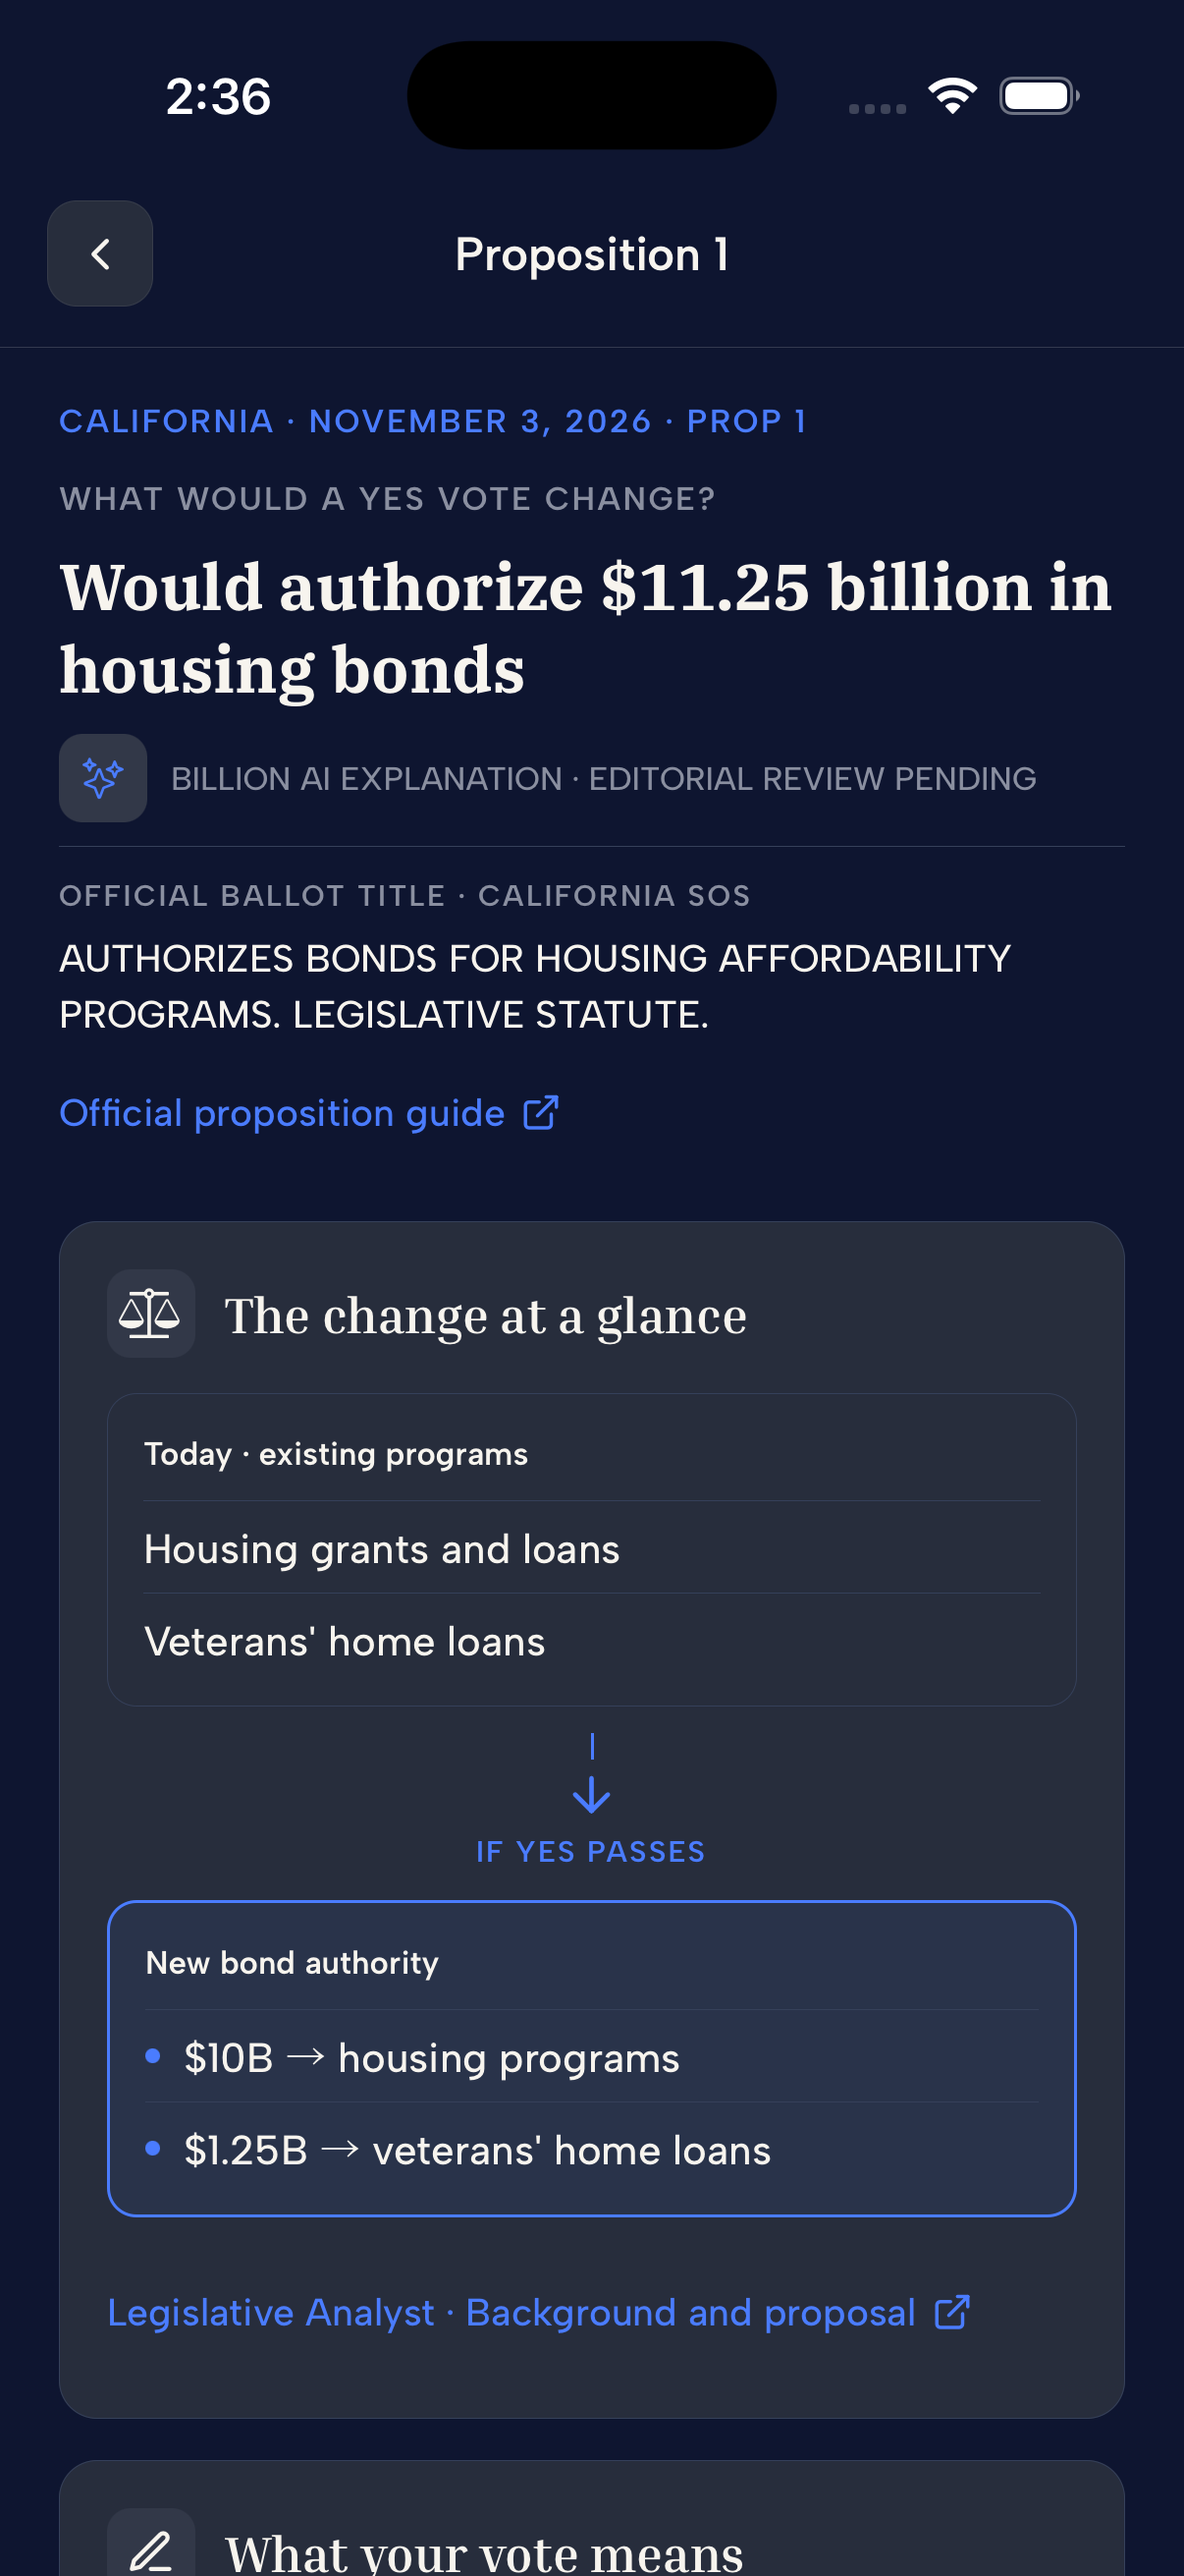
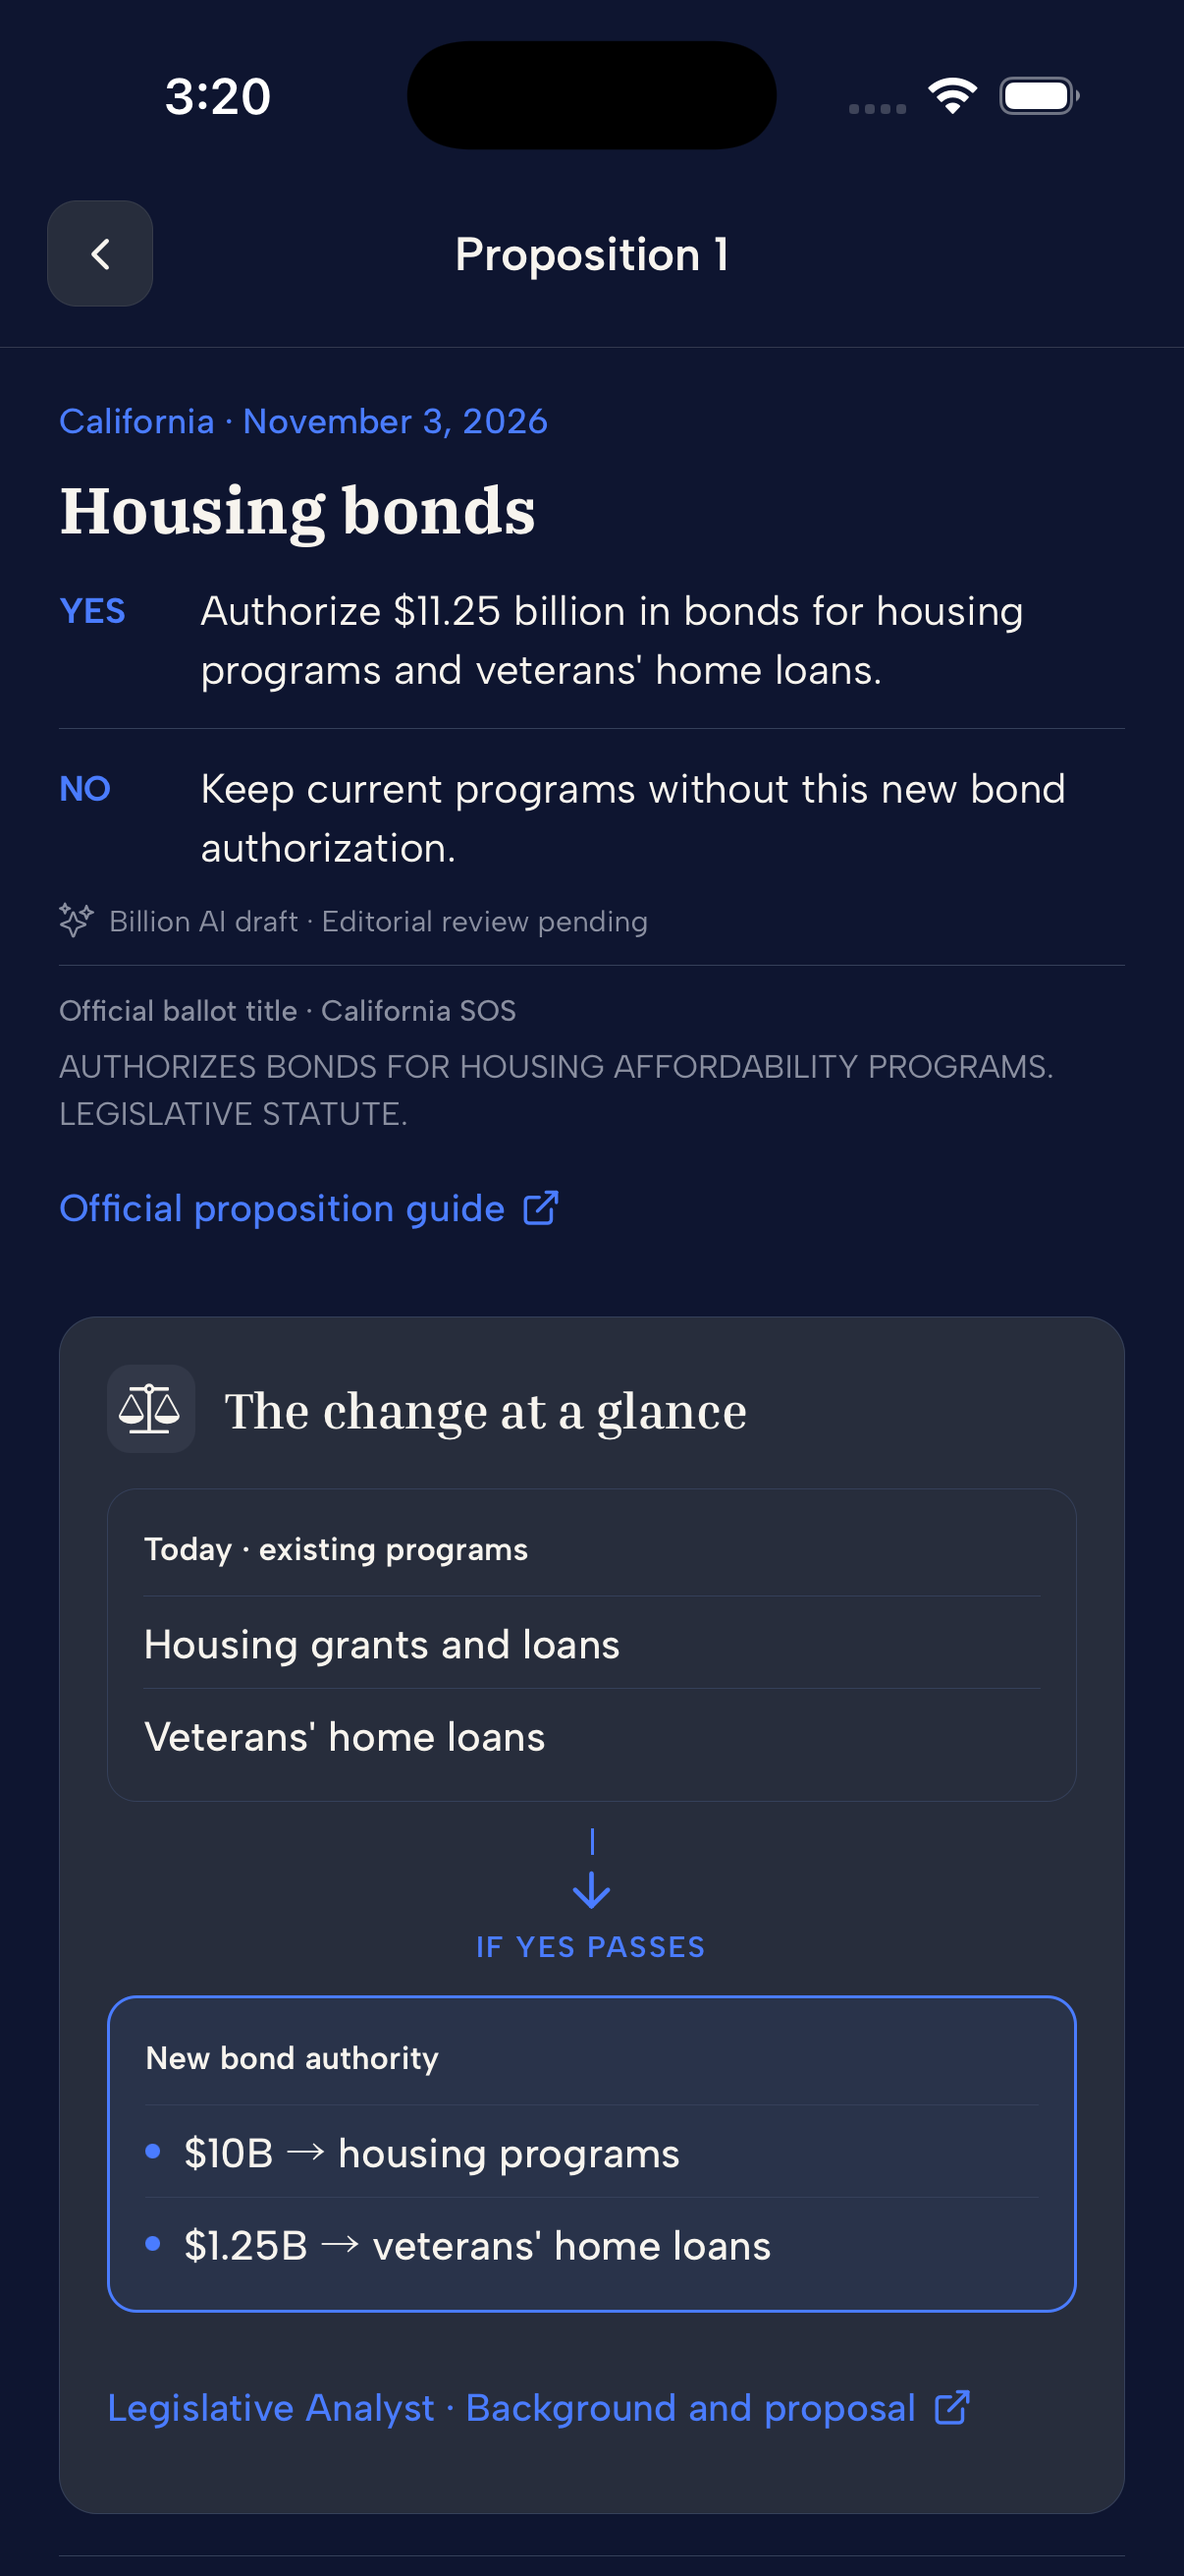
Lead proposition details with clear vote outcomes

diff --git a/apps/expo/src/app/proposition-detail.tsx b/apps/expo/src/app/proposition-detail.tsx
@@ -84,11 +84,11 @@ export default function PropositionDetailScreen() {
           <>
             <View style={s.lead}>
               <Text style={s.kicker}>
-                CALIFORNIA · NOVEMBER 3, 2026 · PROP {measure.number}
+                {fontScale >= 1.8 ? `Proposition ${measure.number} · ` : ""}
+                California · November 3, 2026
               </Text>
               {explainer ? (
                 <>
-                  <Text style={s.question}>WHAT WOULD A YES VOTE CHANGE?</Text>
                   <Text
                     accessibilityRole="header"
                     allowFontScaling={false}
@@ -96,10 +96,43 @@ export default function PropositionDetailScreen() {
                   >
                     {explainer.headline}
                   </Text>
-                  <View style={s.aiRow}>
-                    <View style={s.iconTile}>
-                      <Icon name="sparkle" size={14} color={P.primary} />
+                  <View style={s.quickVotes}>
+                    <View
+                      style={[
+                        s.quickVoteRow,
+                        fontScale >= 1.8 && s.quickVoteLarge,
+                      ]}
+                    >
+                      <Text style={s.quickChoice}>YES</Text>
+                      <Text
+                        style={[
+                          s.quickText,
+                          fontScale >= 1.8 && s.quickTextLarge,
+                        ]}
+                      >
+                        {explainer.voteBriefYes}
+                      </Text>
                     </View>
+                    <View
+                      style={[
+                        s.quickVoteRow,
+                        s.quickVoteRule,
+                        fontScale >= 1.8 && s.quickVoteLarge,
+                      ]}
+                    >
+                      <Text style={s.quickChoice}>NO</Text>
+                      <Text
+                        style={[
+                          s.quickText,
+                          fontScale >= 1.8 && s.quickTextLarge,
+                        ]}
+                      >
+                        {explainer.voteBriefNo}
+                      </Text>
+                    </View>
+                  </View>
+                  <View style={s.aiRow}>
+                    <Icon name="sparkle" size={12} color={P.quiet} />
                     <Text style={s.aiText}>{PROPOSITION_AI_LABEL}</Text>
                   </View>
                 </>
@@ -114,7 +147,7 @@ export default function PropositionDetailScreen() {
               )}
               <View style={s.officialIdentity}>
                 <Text style={s.metaLabel}>
-                  OFFICIAL BALLOT TITLE · CALIFORNIA SOS
+                  Official ballot title · California SOS
                 </Text>
                 <Text style={s.officialTitle}>{measure.title}</Text>
                 <InlineSource
@@ -127,8 +160,10 @@ export default function PropositionDetailScreen() {
             {explainer ? (
               <>
                 <MechanismDiagram explainer={explainer} />
-                <View style={s.surface}>
-                  <SectionHeading icon="vote" title="What your vote means" />
+                <DetailDisclosure
+                  title="Full Yes and No outcomes"
+                  subtitle="More detail from the official guide"
+                >
                   <View style={s.voteRow}>
                     <Text style={s.choice}>YES</Text>
                     <Text style={[s.body, s.voteBody]}>{explainer.yes}</Text>
@@ -141,7 +176,7 @@ export default function PropositionDetailScreen() {
                     label="California SOS · What Your Vote Means"
                     url={measure.sourceUrl}
                   />
-                </View>
+                </DetailDisclosure>
                 <View style={s.surface}>
                   <SectionHeading icon="trendingUp" title="Fiscal effect" />
                   <Text style={s.body}>{explainer.fiscal}</Text>
@@ -407,19 +442,10 @@ const s = StyleSheet.create({
   },
   lead: { gap: 8, paddingBottom: 3 },
   kicker: {
-    fontFamily: fontBody.semibold,
-    fontSize: 11,
+    fontFamily: fontBody.medium,
+    fontSize: 12,
     lineHeight: 17,
     color: P.primary,
-    letterSpacing: 0.8,
-  },
-  question: {
-    fontFamily: fontBody.semibold,
-    fontSize: 11,
-    lineHeight: 16,
-    color: P.quiet,
-    letterSpacing: 0.8,
-    marginTop: 2,
   },
   headline: {
     fontFamily: fontDisplay.bold,
@@ -427,12 +453,39 @@ const s = StyleSheet.create({
     lineHeight: 28,
     color: P.inkOnNight,
   },
-  aiRow: { flexDirection: "row", alignItems: "center", gap: 8 },
+  quickVotes: { gap: 10, marginTop: 2 },
+  quickVoteRow: {
+    flexDirection: "row",
+    alignItems: "flex-start",
+    gap: 12,
+  },
+  quickVoteLarge: { flexDirection: "column", gap: 2 },
+  quickVoteRule: {
+    borderTopWidth: StyleSheet.hairlineWidth,
+    borderTopColor: P.border,
+    paddingTop: 10,
+  },
+  quickChoice: {
+    minWidth: 36,
+    fontFamily: fontBody.bold,
+    fontSize: 12,
+    lineHeight: 20,
+    color: P.primary,
+  },
+  quickText: {
+    flex: 1,
+    fontFamily: fontBody.regular,
+    fontSize: 14,
+    lineHeight: 20,
+    color: P.inkOnNight,
+  },
+  quickTextLarge: { flex: 0 },
+  aiRow: { flexDirection: "row", alignItems: "center", gap: 5 },
   aiText: {
     flex: 1,
-    fontFamily: fontBody.medium,
-    fontSize: 11,
-    lineHeight: 16,
+    fontFamily: fontBody.regular,
+    fontSize: 10,
+    lineHeight: 14,
     color: P.quiet,
   },
   iconTile: {
@@ -446,21 +499,20 @@ const s = StyleSheet.create({
   officialIdentity: {
     borderTopWidth: StyleSheet.hairlineWidth,
     borderTopColor: P.border,
-    paddingTop: 9,
+    paddingTop: 8,
     gap: 4,
   },
   metaLabel: {
-    fontFamily: fontBody.semibold,
+    fontFamily: fontBody.medium,
     fontSize: 10,
-    lineHeight: 15,
-    letterSpacing: 0.8,
+    lineHeight: 14,
     color: P.quiet,
   },
   officialTitle: {
-    fontFamily: fontBody.medium,
-    fontSize: 13,
-    lineHeight: 19,
-    color: P.inkOnNight,
+    fontFamily: fontBody.regular,
+    fontSize: 11,
+    lineHeight: 16,
+    color: P.quiet,
   },
   surface: {
     backgroundColor: P.card,

diff --git a/apps/expo/src/utils/proposition-explainers.ts b/apps/expo/src/utils/proposition-explainers.ts
@@ -5,6 +5,8 @@
 export interface PropositionExplainer {
   officialTitle: string;
   headline: string;
+  voteBriefYes: string;
+  voteBriefNo: string;
   statusQuo: string;
   yes: string;
   no: string;
@@ -21,7 +23,7 @@ export interface PropositionExplainer {
 }
 
 export const PROPOSITION_AI_LABEL =
-  "BILLION AI EXPLANATION · EDITORIAL REVIEW PENDING";
+  "Billion AI draft · Editorial review pending";
 
 export function propositionDetailRoute(number: string) {
   return {
@@ -43,7 +45,10 @@ const explainers: Record<string, PropositionExplainer> = {
   "1": {
     officialTitle:
       "AUTHORIZES BONDS FOR HOUSING AFFORDABILITY PROGRAMS. LEGISLATIVE STATUTE.",
-    headline: "Would authorize $11.25 billion in housing bonds",
+    headline: "Housing bonds",
+    voteBriefYes:
+      "Authorize $11.25 billion in bonds for housing programs and veterans' home loans.",
+    voteBriefNo: "Keep current programs without this new bond authorization.",
     statusQuo:
       "California already helps fund some housing construction and home loans. The last statewide housing bond approved by voters was in 2024.",
     yes: "The state could sell $11.25 billion in bonds for affordable housing programs and veterans' home loans.",
@@ -65,7 +70,11 @@ const explainers: Record<string, PropositionExplainer> = {
   "5": {
     officialTitle:
       "CHANGES RECALL ELECTION PROCESS FOR STATEWIDE OFFICERS. LEGISLATIVE CONSTITUTIONAL AMENDMENT.",
-    headline: "Would make state recall ballots about removal only",
+    headline: "Recalls of state officials",
+    voteBriefYes:
+      "Vote only on removal. If removal wins, a replacement is chosen afterward by election or appointment; for Governor, the Lieutenant Governor takes over.",
+    voteBriefNo:
+      "Keep removal and a replacement vote on the same recall ballot.",
     statusQuo:
       "A state recall ballot now asks voters whether to remove an official and whom to elect as a replacement if the recall succeeds.",
     yes: "A recall ballot would ask only whether to remove the official. A vacancy would then be filled by a special election, appointment, or Lieutenant Governor succession, depending on the office and timing.",
@@ -73,11 +82,10 @@ const explainers: Record<string, PropositionExplainer> = {
     mechanism: {
       beforeTitle: "Today · one recall ballot",
       before: ["Remove the official?", "Choose a replacement?"],
-      afterTitle: "Two-stage process",
+      afterTitle: "Removal first, replacement afterward",
       after: [
-        "Recall ballot → removal only",
-        "If removed → vacancy",
-        "Vacancy → election, appointment, or Lt. Governor succession",
+        "Recall ballot → removal vote only",
+        "If removed → separate replacement process",
       ],
     },
     implementation:

diff --git a/apps/expo/src/utils/proposition-explainers.test.ts b/apps/expo/src/utils/proposition-explainers.test.ts
@@ -20,7 +20,8 @@ test("only the matching 2026 official guide record receives a Billion AI draft",
     "https://voterguide.sos.ca.gov/propositions/1/",
   );
   assert.ok(one);
-  assert.match(one.headline, /\$11\.25 billion/);
+  assert.equal(one.headline, "Housing bonds");
+  assert.match(one.voteBriefYes, /\$11\.25 billion/);
   assert.equal(one.officialTitle, prop1Title);
   assert.notEqual(one.headline, one.officialTitle);
   assert.equal(one.mechanism.before.length, 2);
@@ -66,8 +67,8 @@ test("navigation carries only the proposition number and the draft label is expl
     pathname: "/proposition-detail",
     params: { number: "5" },
   });
-  assert.match(PROPOSITION_AI_LABEL, /AI EXPLANATION/);
-  assert.match(PROPOSITION_AI_LABEL, /EDITORIAL REVIEW PENDING/);
+  assert.match(PROPOSITION_AI_LABEL, /AI draft/);
+  assert.match(PROPOSITION_AI_LABEL, /Editorial review pending/);
 });
 
 test("recall explainer preserves fiscal uncertainty and describes both vote paths", () => {
@@ -79,7 +80,9 @@ test("recall explainer preserves fiscal uncertainty and describes both vote path
   assert.match(five?.fiscal ?? "", /net fiscal effect is unknown/);
   assert.match(five?.yes ?? "", /vacancy/);
   assert.match(five?.yes ?? "", /Lieutenant Governor/);
-  assert.equal(five?.mechanism.after.length, 3);
+  assert.equal(five?.mechanism.after.length, 2);
+  assert.match(five.voteBriefYes, /replacement is chosen afterward/);
+  assert.match(five.voteBriefNo, /same recall ballot/);
   assert.match(five.no, /two-question/);
   assert.match(five.analysisUrl, /\/5\/analysis\.htm$/);
 });
